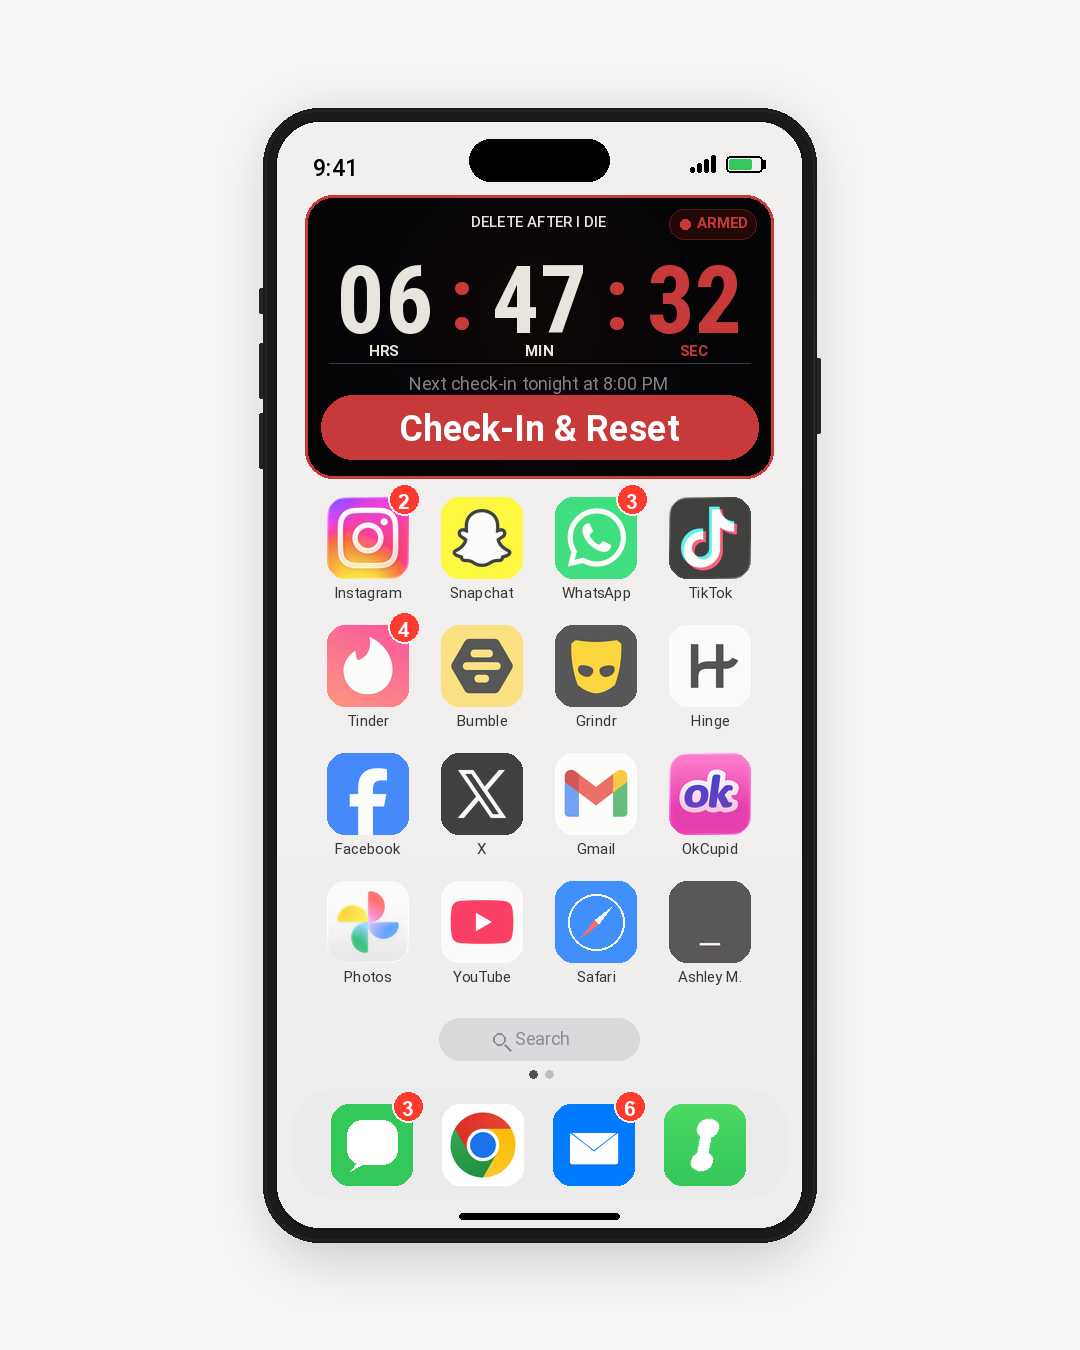
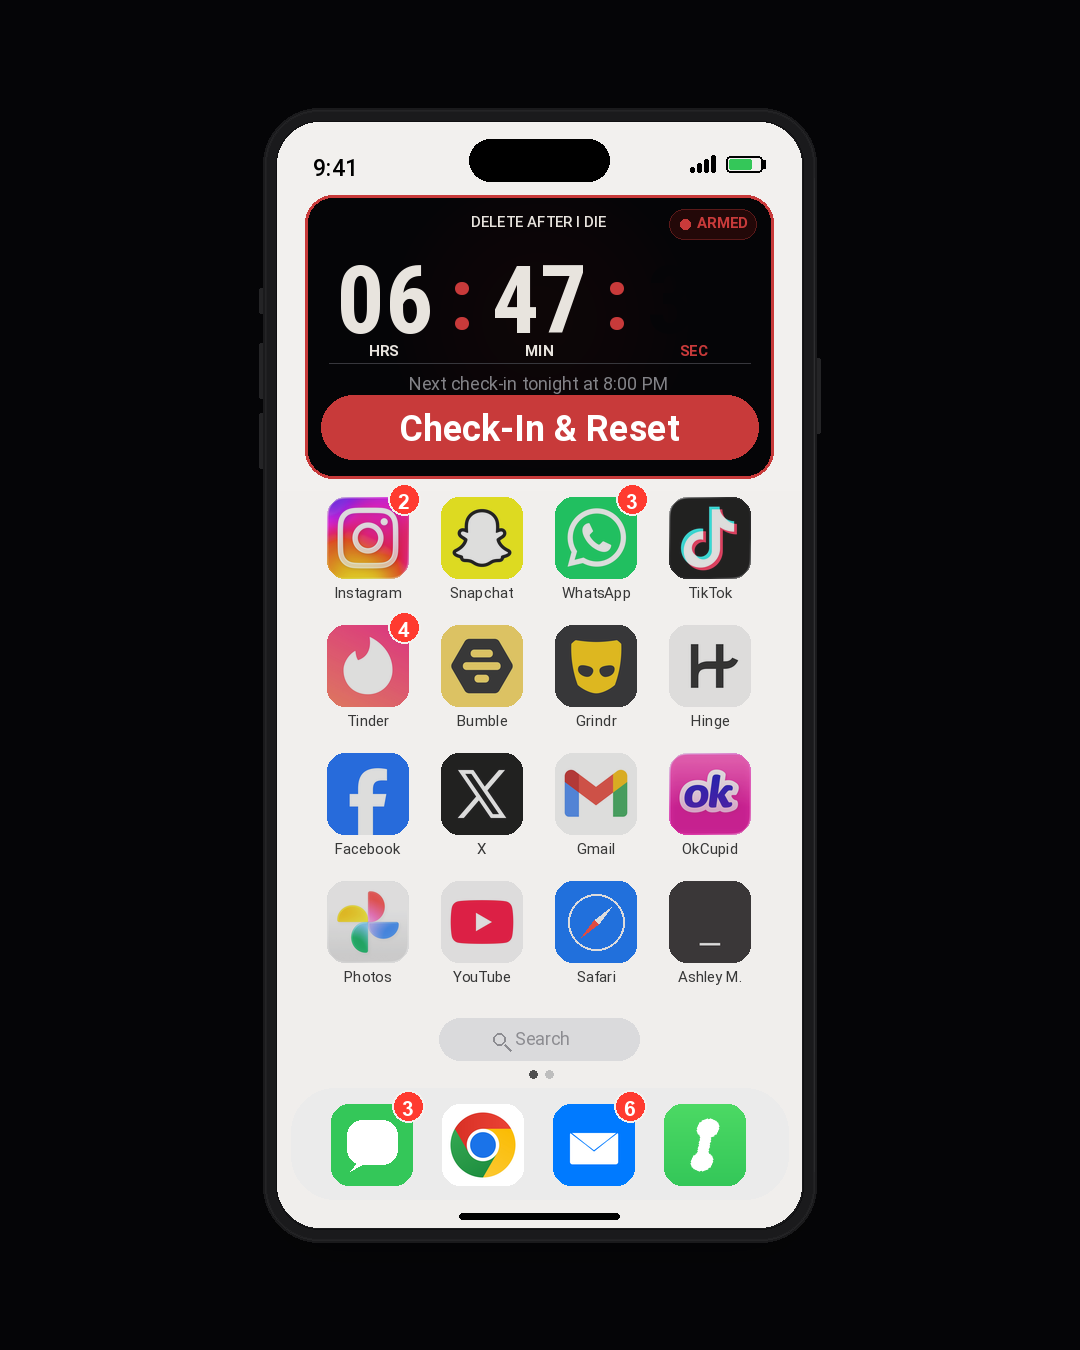
v19 image with dark bg, live seconds overlay repositioned and resized

diff --git a/index.html b/index.html
@@ -935,9 +935,9 @@
       <div style="flex-shrink:0;text-align:center;align-self:stretch;display:flex;flex-direction:column;justify-content:center;padding-top:0;" class="reveal">
         <p style="font-size:11px;font-weight:600;letter-spacing:3px;text-transform:uppercase;color:var(--red);margin-bottom:12px;">Check-In App</p>
 
-        <div style="position:relative;display:inline-block;max-width:320px;margin:0 auto;background:#050507;border-radius:8px;overflow:hidden;">
-          <img src="/iphone-mockup.png" alt="Delete After I Die check-in app on iPhone showing live countdown timer" style="width:100%;display:block;border-radius:8px;mix-blend-mode:multiply;filter:contrast(1.05);" id="iphoneMockupImg">
-          <div id="phone-secs-overlay" style="position:absolute;top:22%;left:66%;transform:translateX(-50%);font-family:'Bebas Neue',sans-serif;font-size:clamp(8px,3.2vw,18px);font-weight:700;color:#C83A3A;line-height:1;letter-spacing:0px;text-shadow:0 0 6px rgba(200,58,58,0.5);pointer-events:none;user-select:none;z-index:10;">32</div>
+        <div style="position:relative;display:inline-block;max-width:320px;margin:0 auto;">
+          <img src="/iphone-mockup.png" alt="Delete After I Die check-in app on iPhone showing live countdown timer" style="width:100%;display:block;border-radius:0;" id="iphoneMockupImg">
+          <div id="phone-secs-overlay" style="position:absolute;top:26%;left:70%;transform:translateX(-50%);font-family:'Arial Narrow',Arial,sans-serif;font-size:clamp(10px,4.2vw,24px);font-weight:700;color:#C83A3A;line-height:1;letter-spacing:-0.5px;pointer-events:none;user-select:none;z-index:10;">32</div>
         </div>
 
       </div>
